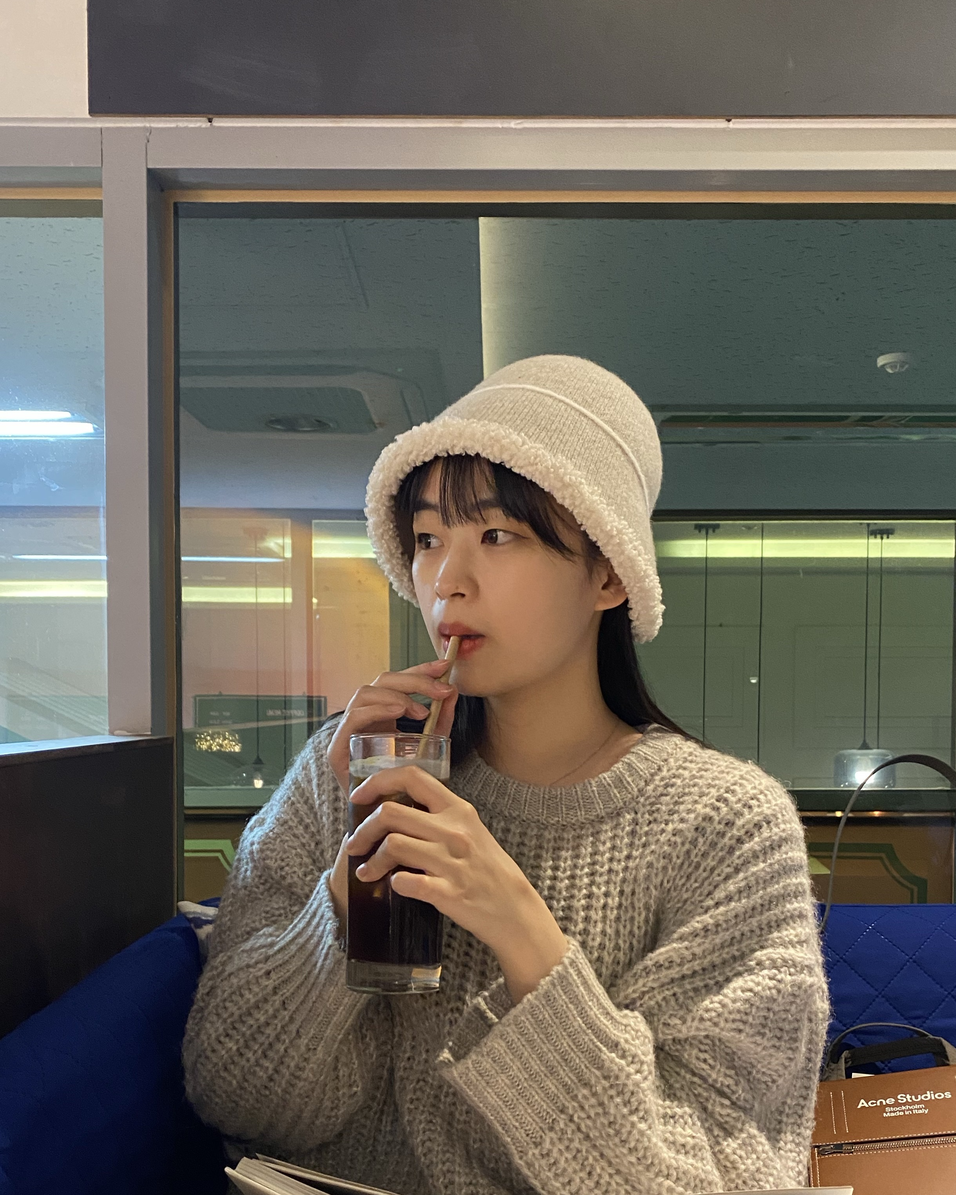
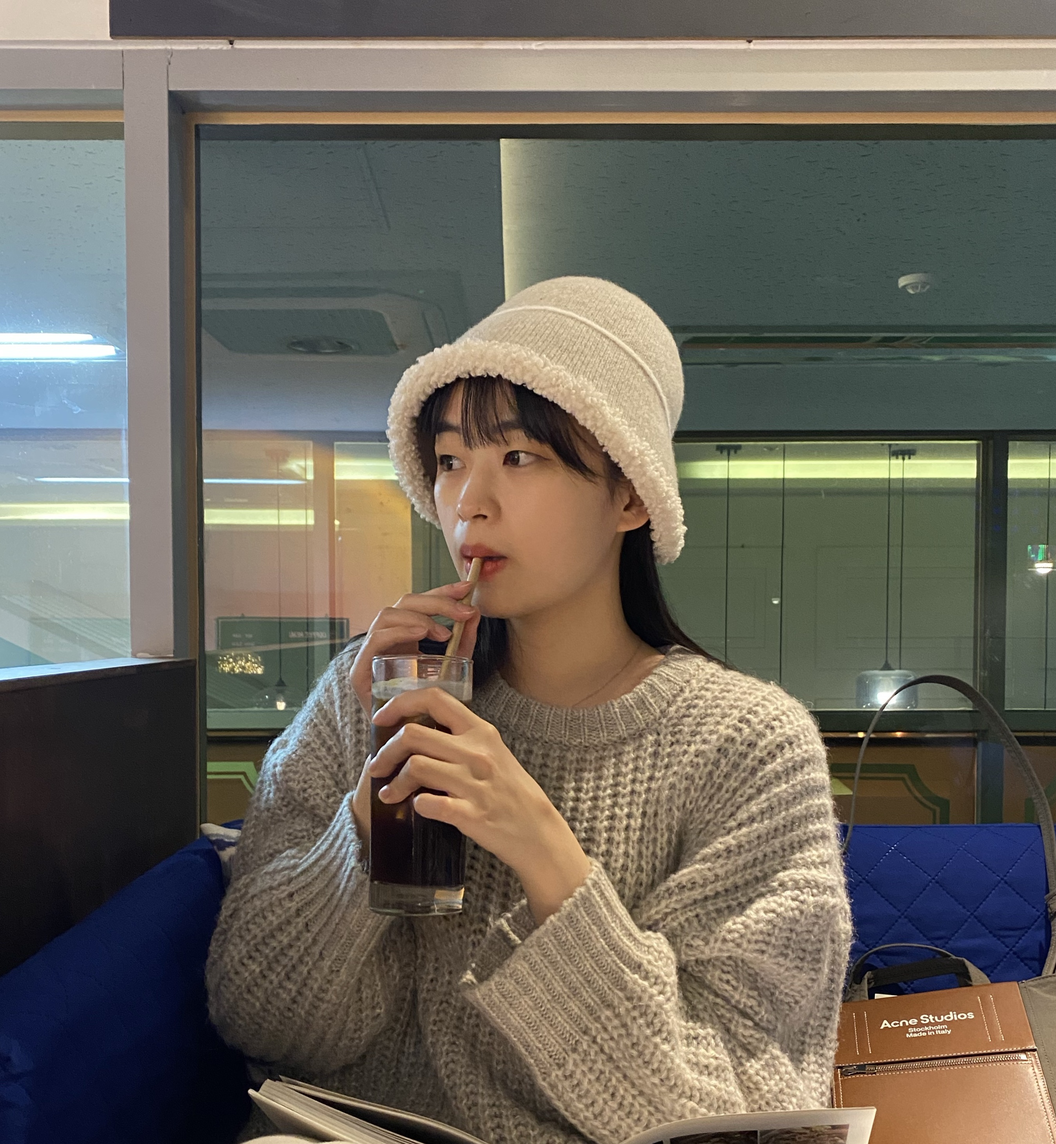
cut images

diff --git a/index.html b/index.html
@@ -407,7 +407,7 @@
       <div class="about-container">
         <div class="about-header">
           <div class="about-photo">
-            <img src="/assets/img/profile.jpeg" alt="Eunbyeol Cho">
+            <img src="/assets/img/profile.jpeg?v=1" alt="Eunbyeol Cho">
           </div>
           <div class="about-intro">
             <h1>Eunbyeol Cho</h1>
